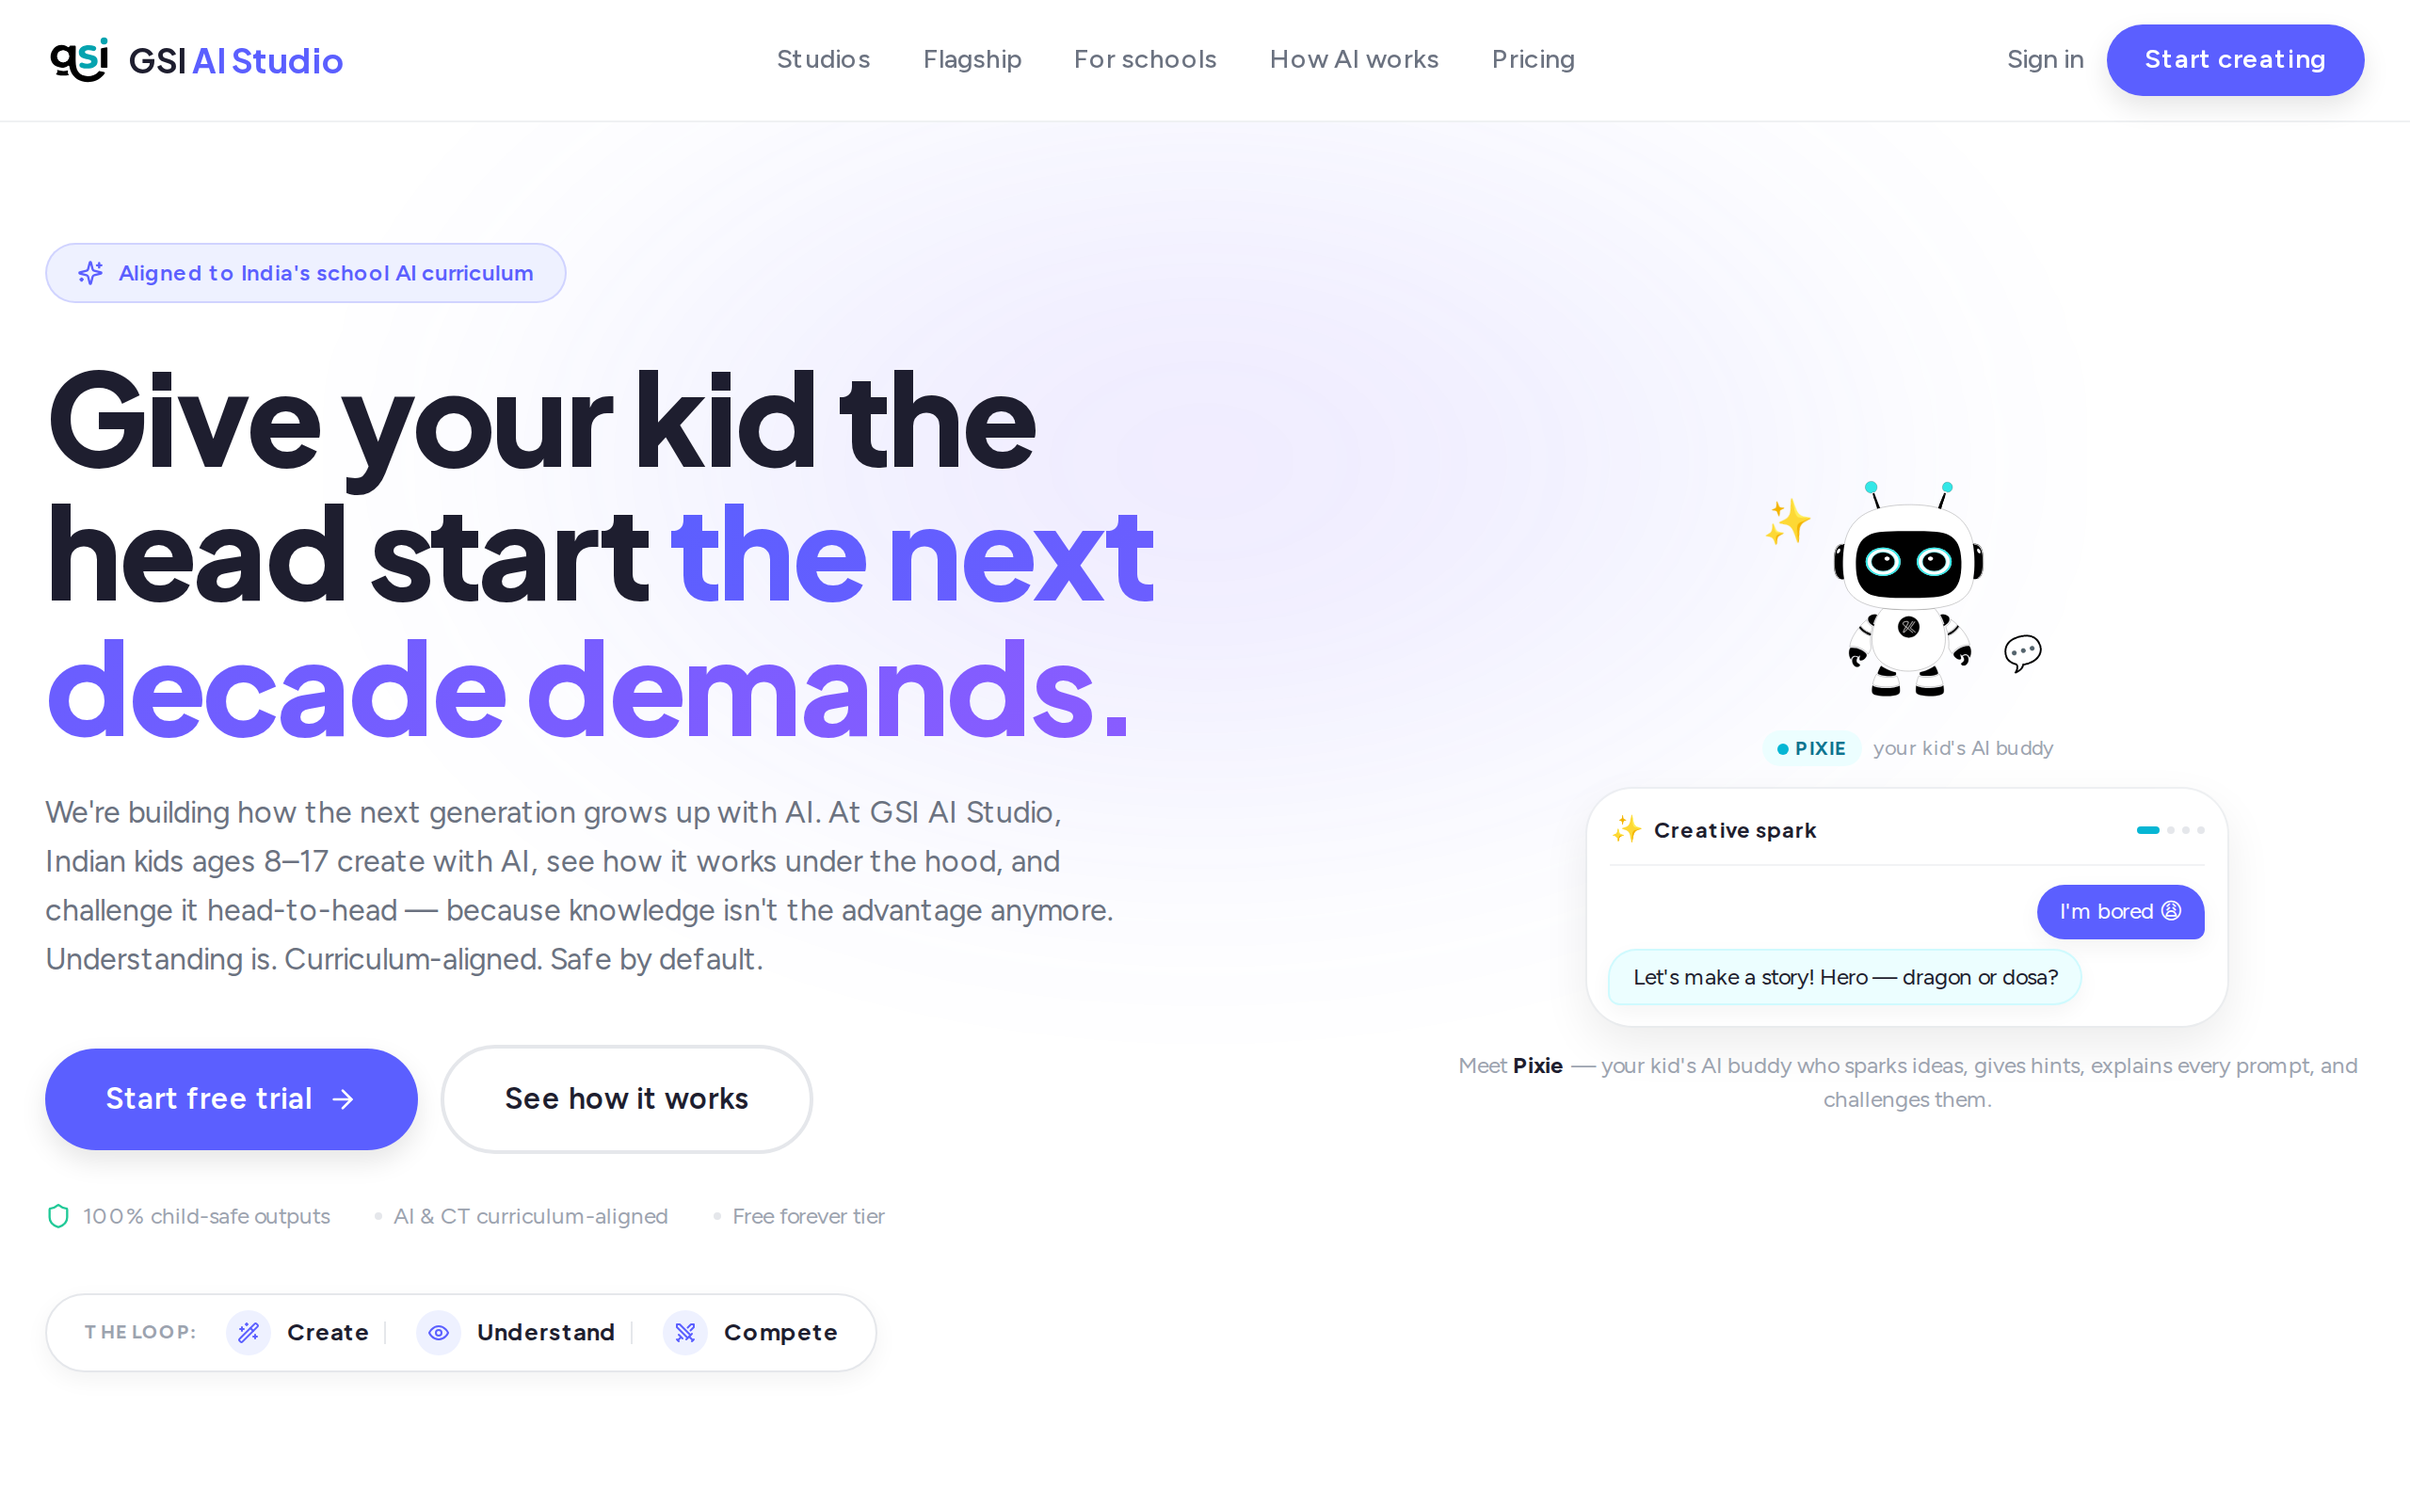
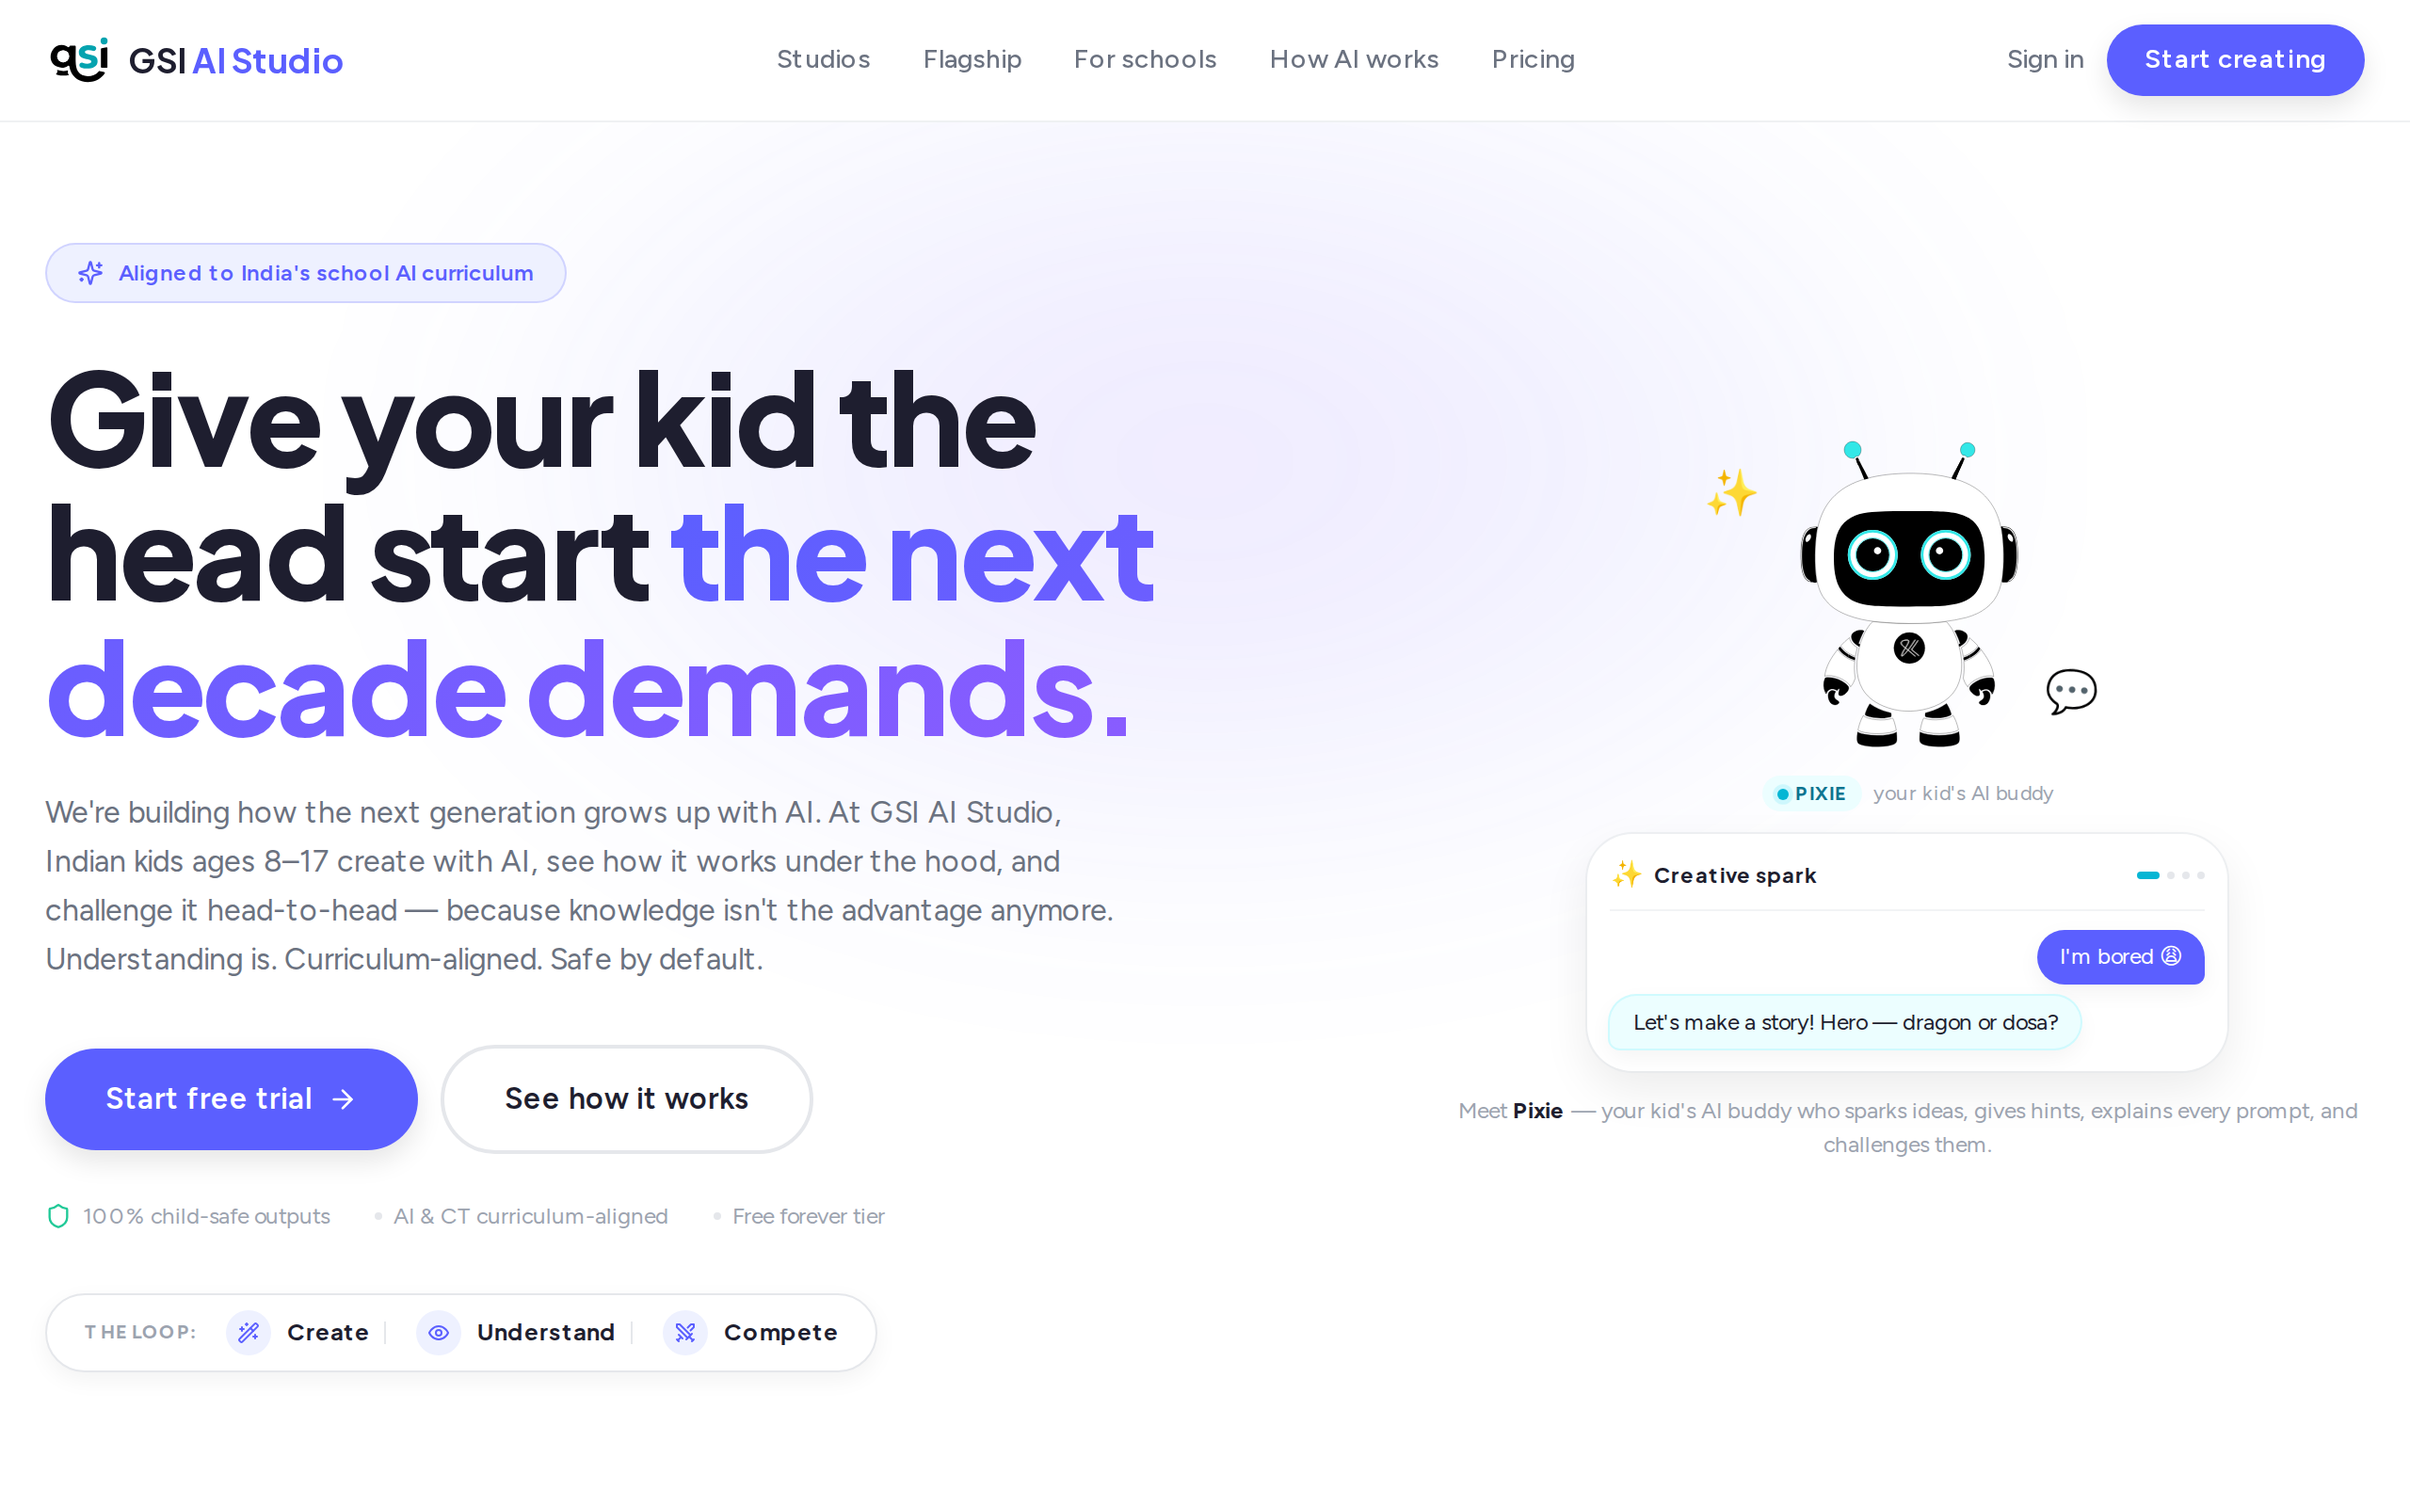
MARKETING-HERO: bump Pixie size from xl (112px) to 2xl (160px)
Pixie was reading too small relative to the chat demo panel — she's the
hero, the chat is supporting context. Bump to size="2xl" so she
dominates the visual hierarchy. Adjusted sparkle/chat accent positions
to match the larger avatar.

Changed region(s): [[0.5938, 0.5625, 0.9688, 0.7812], [0.6875, 0.3125, 0.875, 0.5938]]

diff --git a/components/marketing/Hero.tsx b/components/marketing/Hero.tsx
@@ -245,7 +245,7 @@ function BrandMascotHero() {
       >
         <MascotAvatar
           id={mascot.id}
-          size="xl"
+          size="2xl"
           ariaLabel={`${mascot.name} — GSI brand mascot`}
         />
 
@@ -254,7 +254,7 @@ function BrandMascotHero() {
           aria-hidden
           animate={{ rotate: [0, 18, -10, 0], scale: [1, 1.15, 1] }}
           transition={{ duration: 3.5, repeat: Infinity, ease: 'easeInOut' }}
-          className="absolute -left-5 top-1 text-xl"
+          className="absolute -left-7 top-2 text-2xl"
         >
           ✨
         </motion.span>
@@ -262,7 +262,7 @@ function BrandMascotHero() {
           aria-hidden
           animate={{ rotate: [0, -18, 10, 0], scale: [1, 1.15, 1] }}
           transition={{ duration: 4, repeat: Infinity, ease: 'easeInOut', delay: 1.2 }}
-          className="absolute -right-4 bottom-3 text-base"
+          className="absolute -right-5 bottom-4 text-xl"
         >
           💬
         </motion.span>
